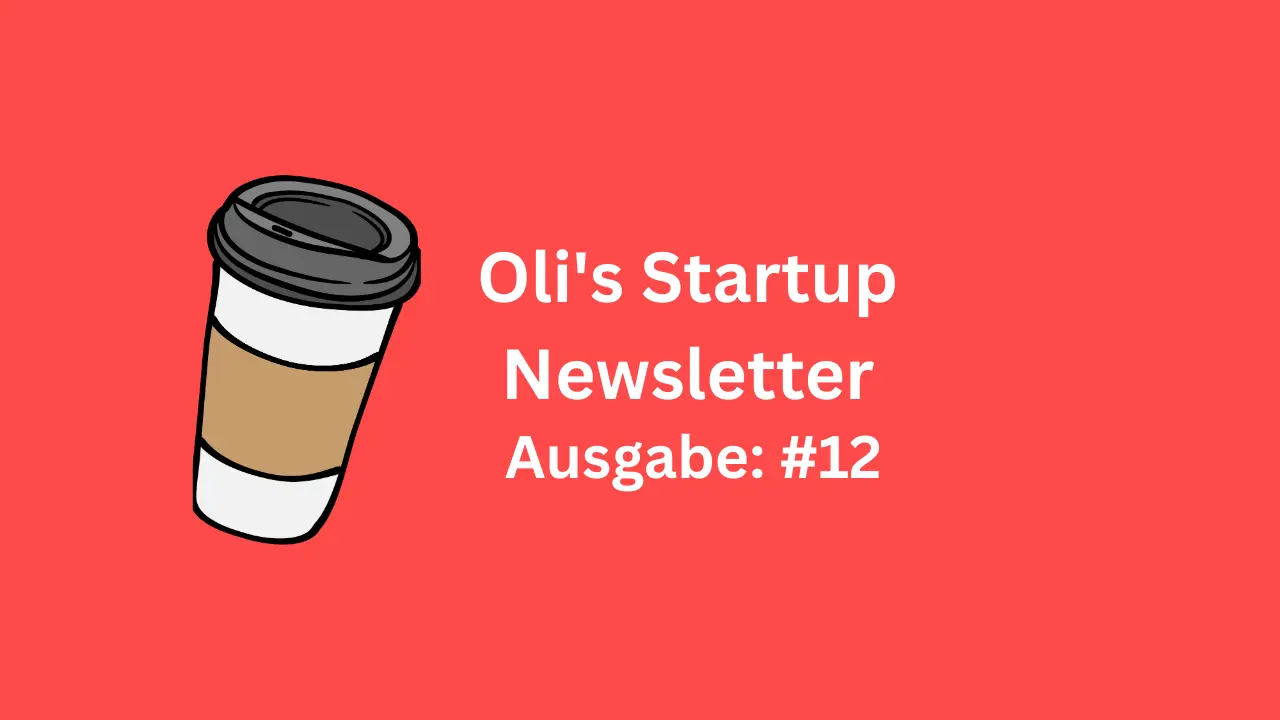
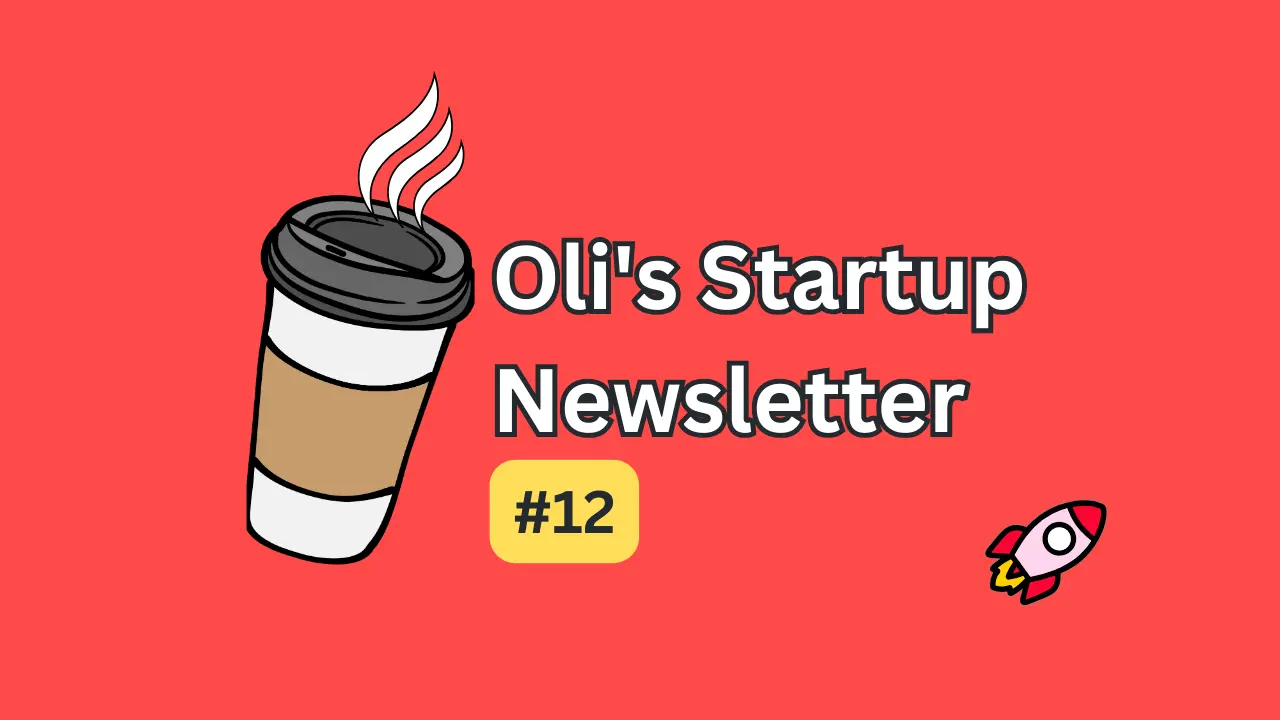
newsletter and thumbnail

Changed region(s): [[0.125, 0.0917, 0.8125, 0.7944], [0.375, 0.4889, 0.7812, 0.7944], [0.75, 0.6722, 0.875, 0.8556]]

diff --git a/collections/_posts/2026-03-10-dach-startups-im-maerz-2026-kapital-kehrt-zurueck-aber-nur-mit-effizienznachweis.md b/collections/_posts/2026-03-10-dach-startups-im-maerz-2026-kapital-kehrt-zurueck-aber-nur-mit-effizienznachweis.md
@@ -8,6 +8,7 @@ categories:
     - startups
     - KI
     - vc
+    - newsletter
 description: 'Neue Deals in DACH zeigen: Geld ist da, aber nur für belastbare Modelle zwischen Expansion, Effizienzdruck und regulatorischer Unsicherheit'
 thumbnail: '/assets/images/gen/blog/dach-startups-im-maerz-2026-kapital-kehrt-zurueck-aber-nur-mit-effizienznachweis/header_thumbnail.webp'
 image: '/assets/images/gen/blog/dach-startups-im-maerz-2026-kapital-kehrt-zurueck-aber-nur-mit-effizienznachweis/header.webp'
@@ -93,3 +94,5 @@ Die Nachrichten dieser Woche sprechen nicht gegen Wachstum. Sie definieren nur s
 - [Brutkasten: Matr wird liquidiert](https://brutkasten.com/artikel/matr-wird-liquidiert)
 - [EU-Startups: Xsensio draws €6 million](https://www.eu-startups.com/2026/03/xsensios-wearable-chip-that-analyses-proteins-and-hormones-in-real-time-draws-e6-million/)
 - [PR Newswire: Xsensio Series A announcement](https://www.prnewswire.com/news-releases/xsensio-sa-raises-7m-oversubscribed-series-a-accelerates-clinical-deployment-of-continuous-biosensing-302700872.html)
+
+Keine Startup-News aus dem DACH-Raum verpassen? Dann abonniere meinen [LinkedIn-Newsletter](https://www.linkedin.com/newsletters/7280323554103971840/)
